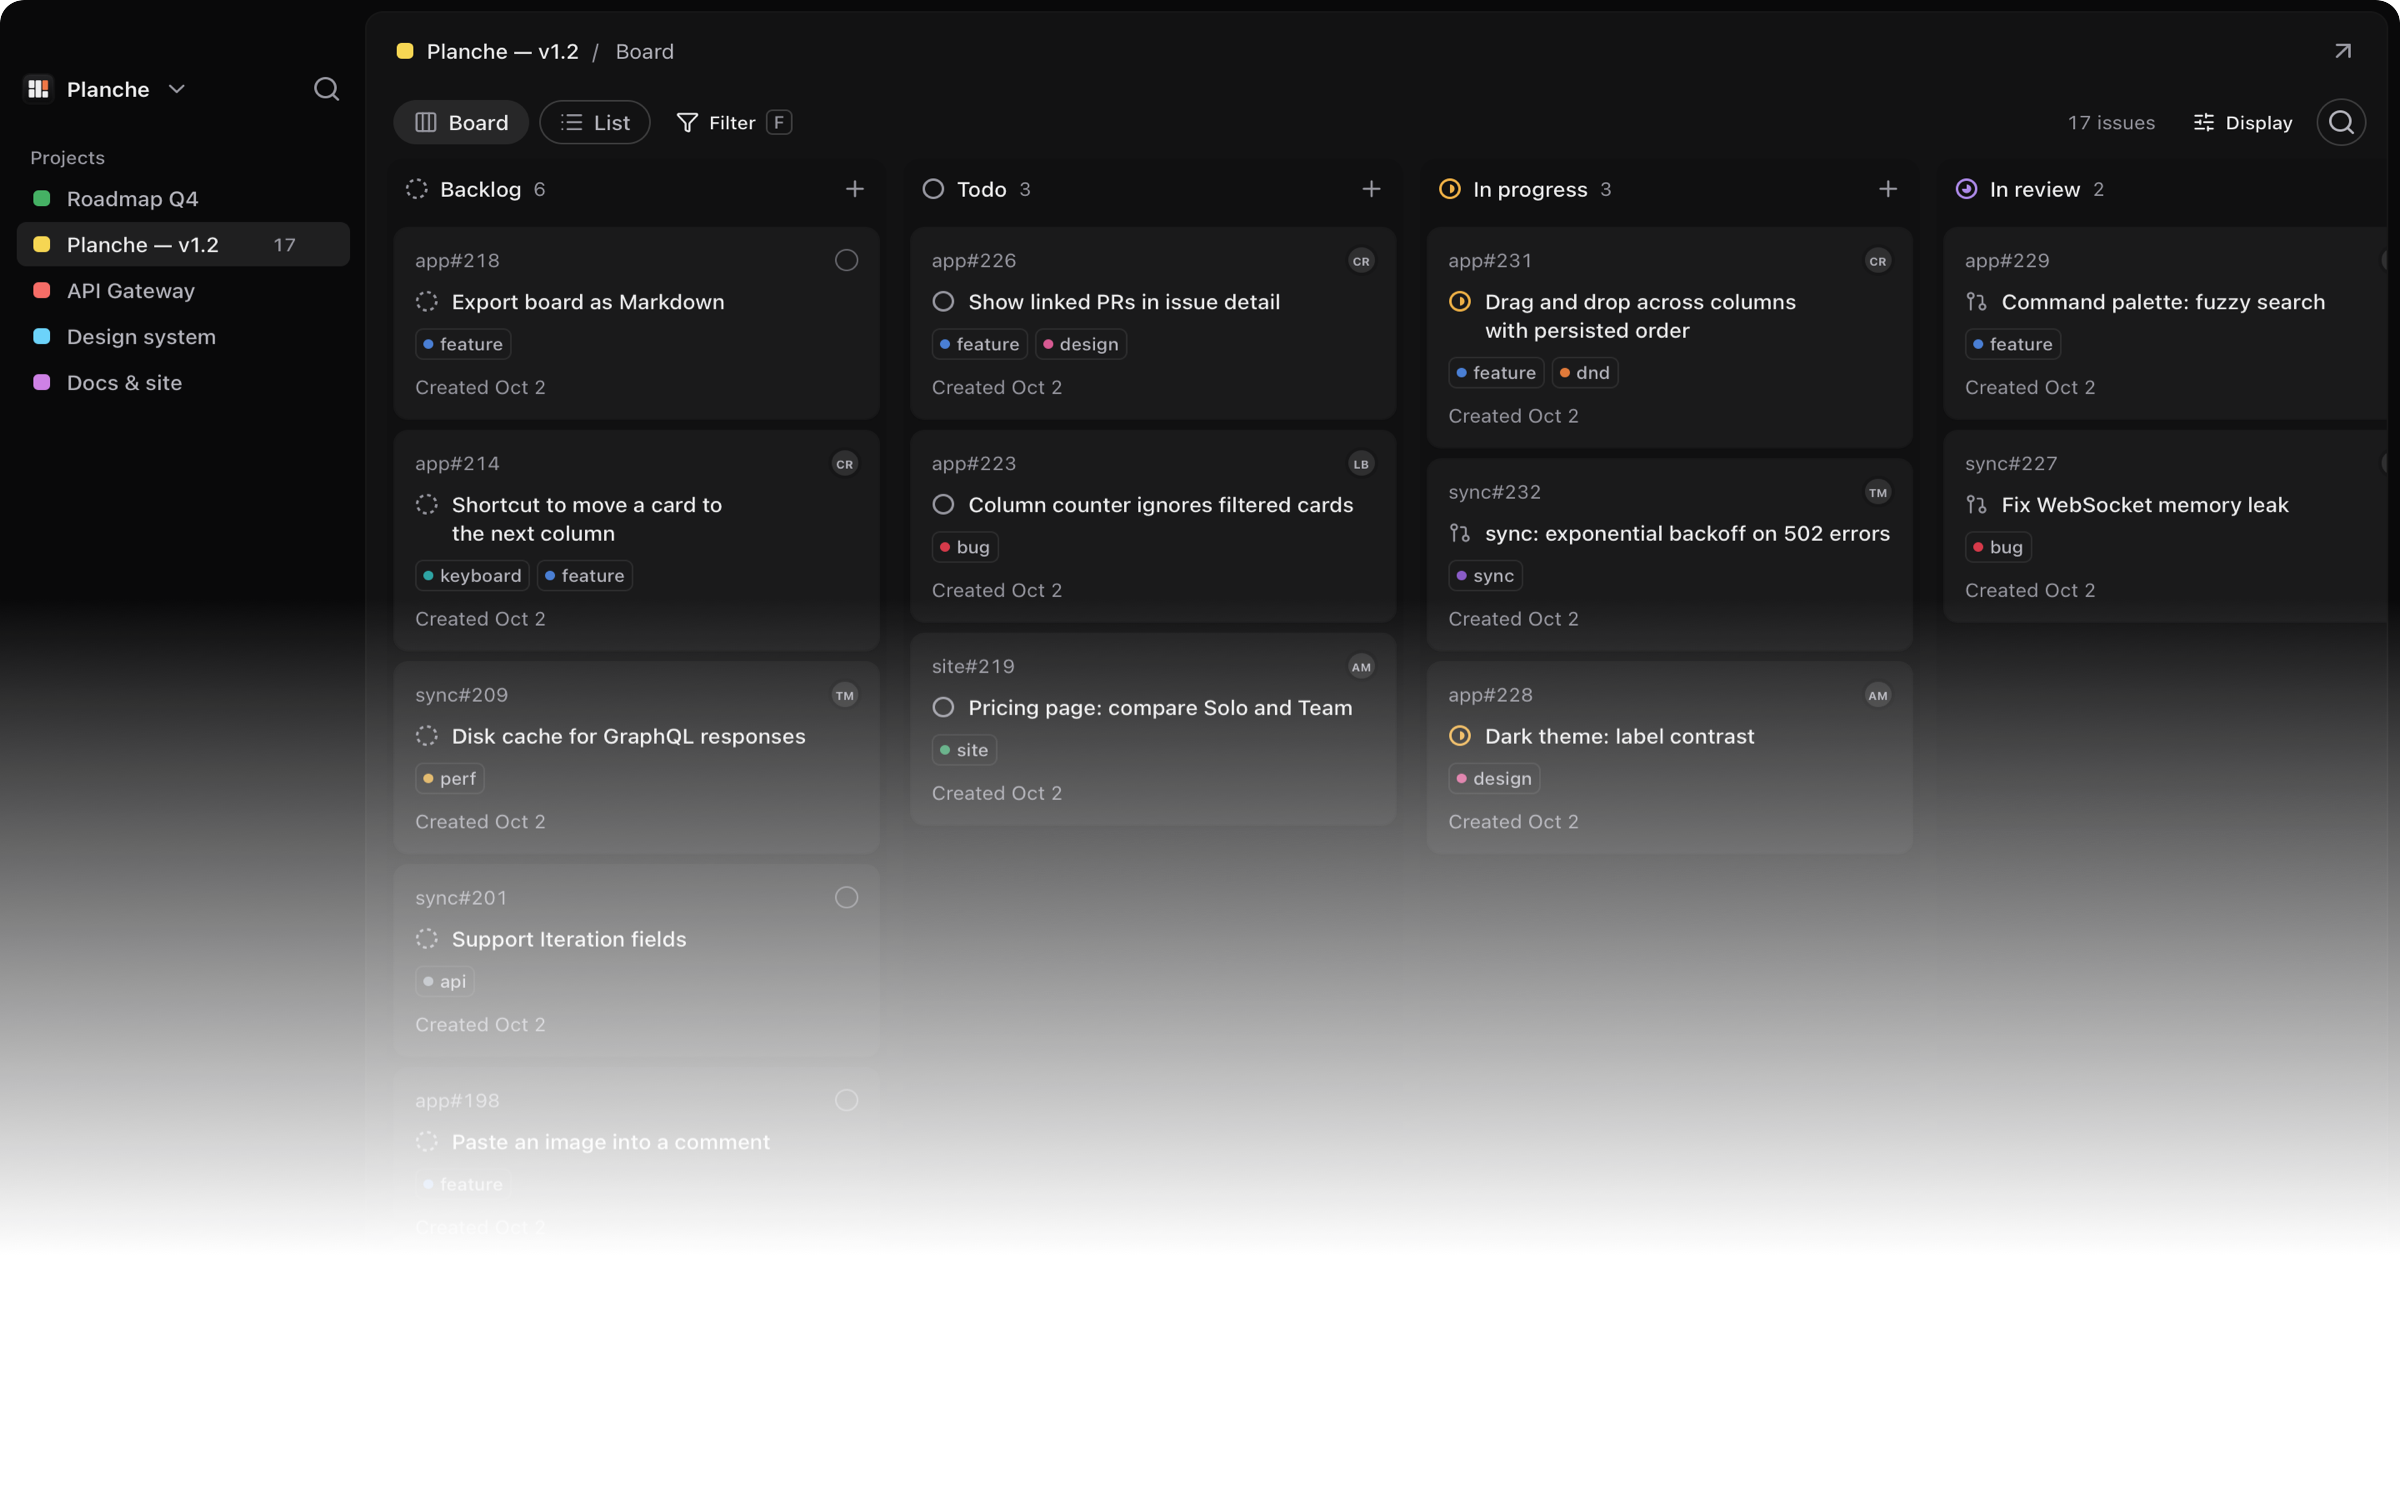
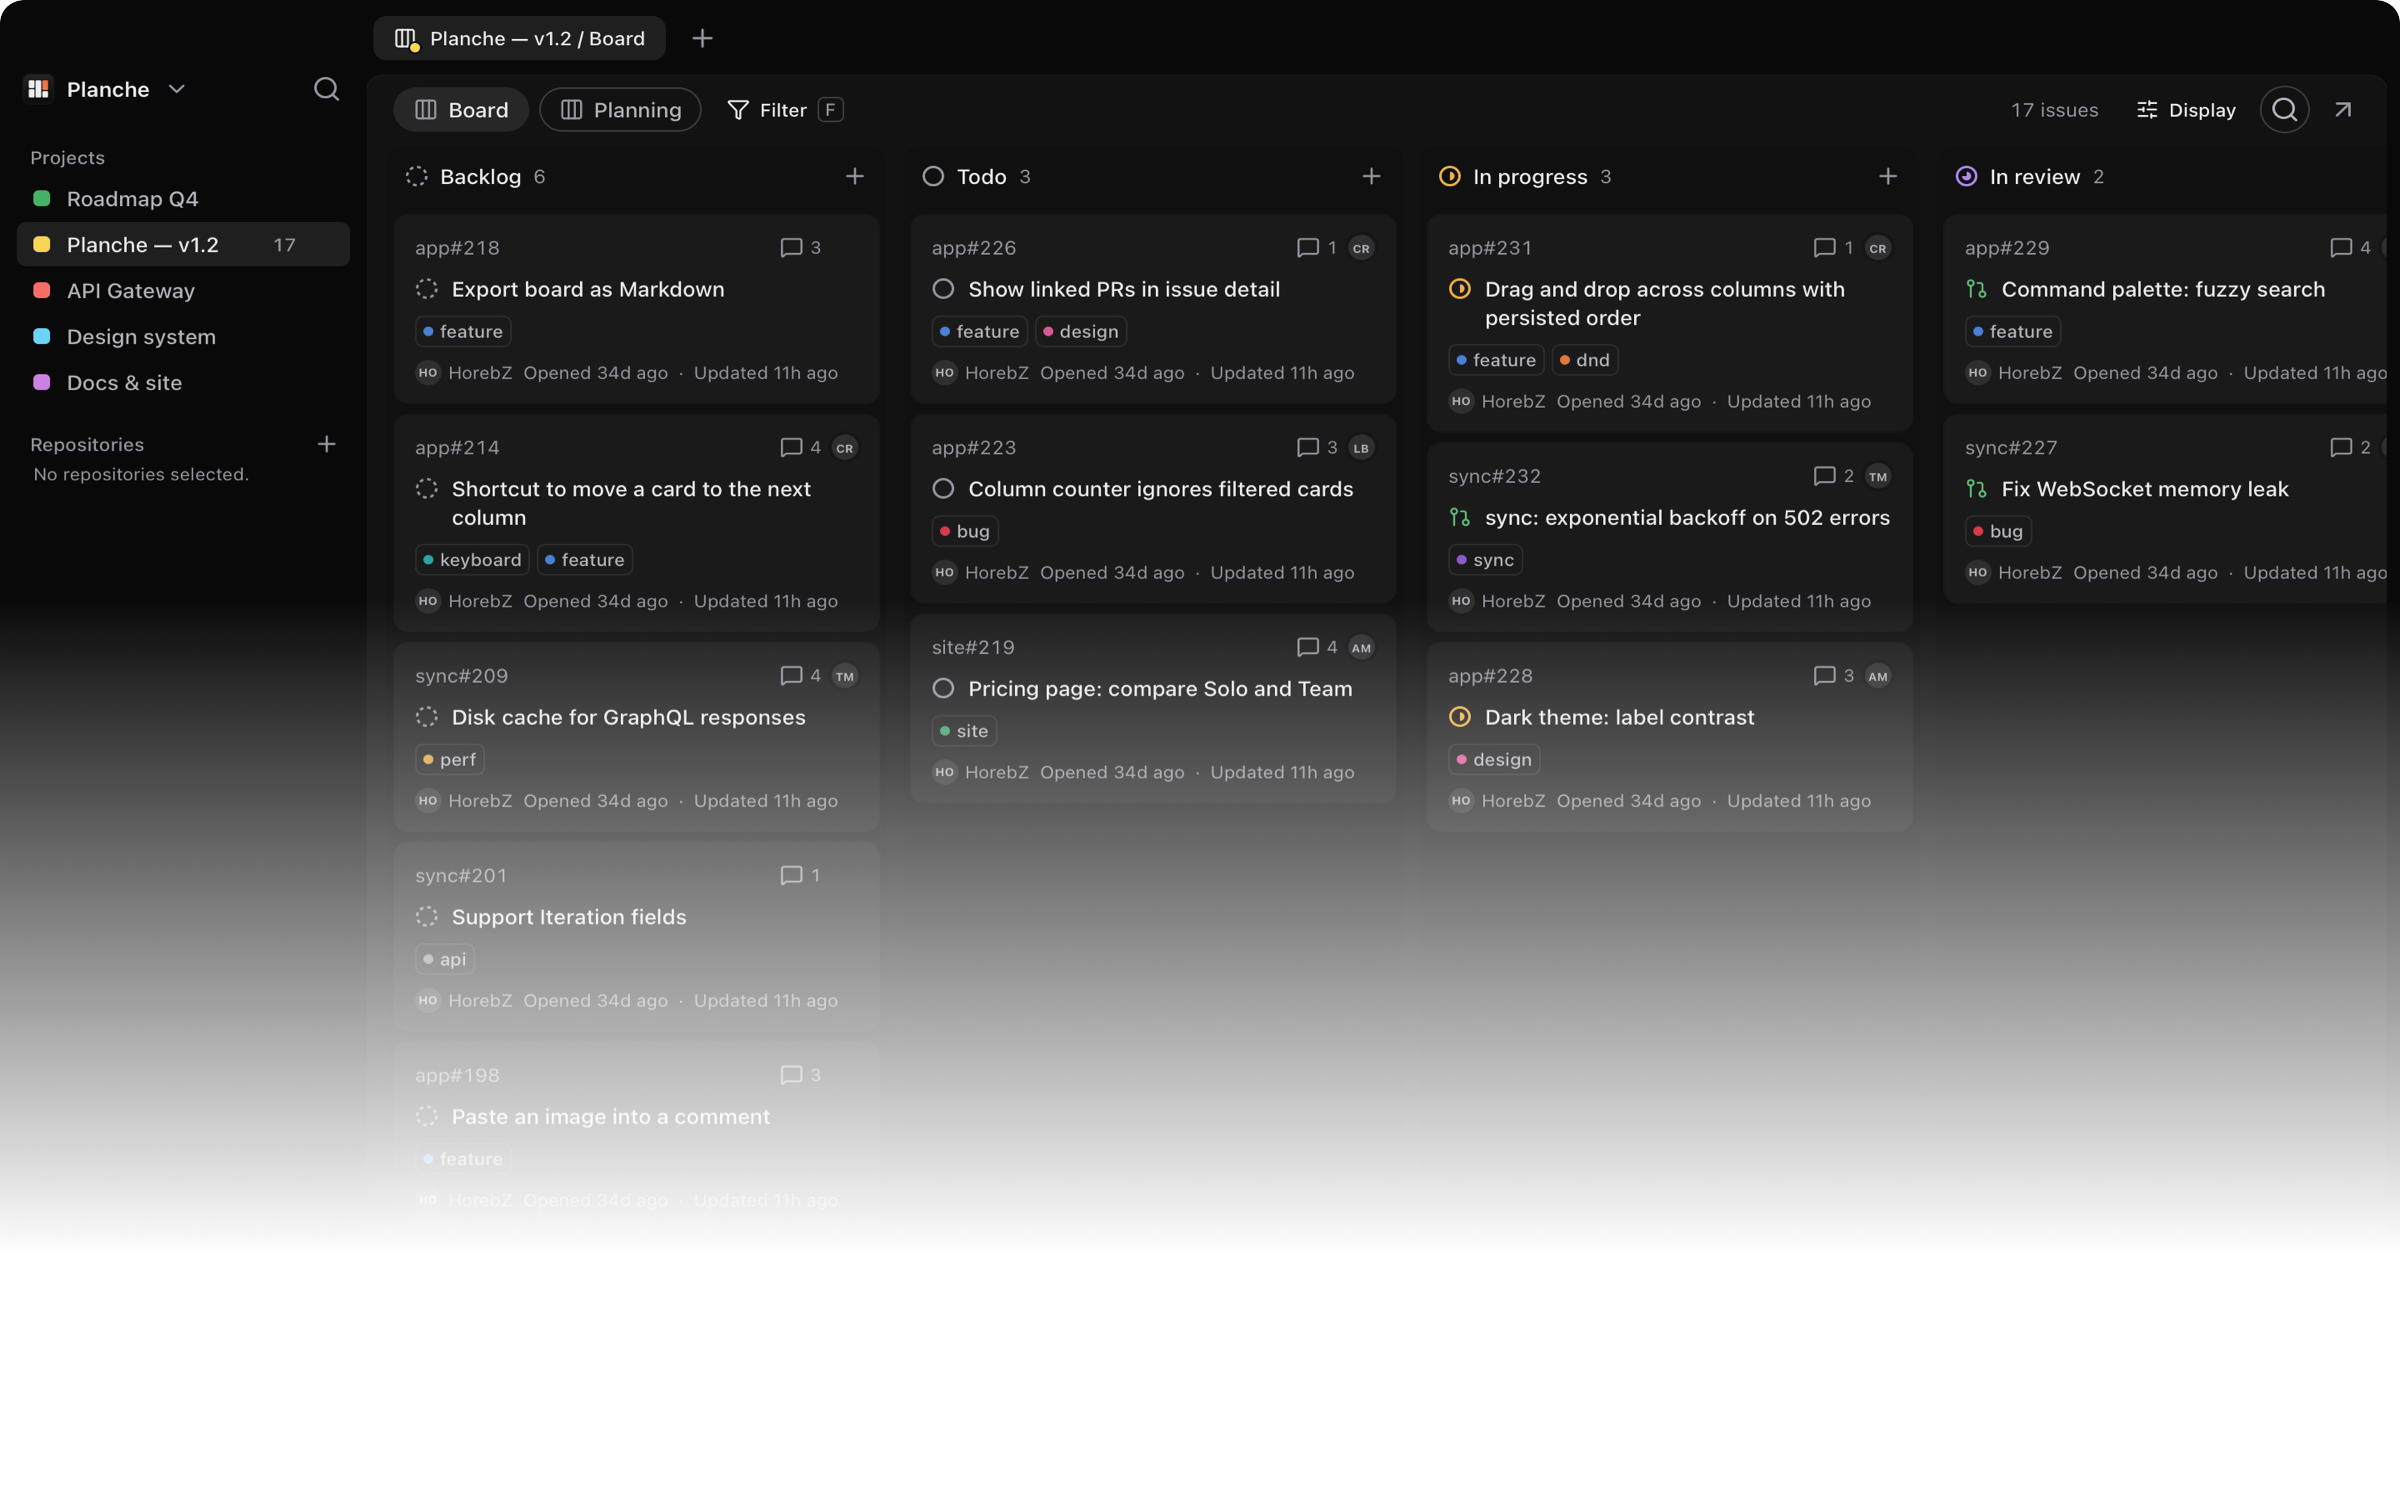
docs: simplify README and refresh board screenshots

diff --git a/README.md b/README.md
@@ -5,111 +5,54 @@
   </picture>
 </h1>
 
-<p align="center"><strong>Your GitHub Projects, at native speed.</strong></p>
-<p align="center">A macOS client for GitHub Projects.</p>
+<p align="center"><strong>A native macOS client for GitHub Projects v2.</strong></p>
 
 <p align="center">
   <a href="https://github.com/HorebZ/Planche/releases">Download the alpha</a> ·
-  <a href="https://github.com/HorebZ/Planche">☆ Star on GitHub</a> ·
   <a href="https://github.com/HorebZ/Planche/issues/1">Roadmap</a> ·
-  <a href="https://github.com/HorebZ/Planche/issues">Report an issue</a>
+  <a href="https://github.com/HorebZ/Planche/issues">Report an issue</a> ·
+  <a href="#contributing">Contribute</a>
 </p>
 <p align="center">Public alpha · macOS 15 or later</p>
 
 <p align="center">
   <img src="website/assets/board-readme.png" width="1100" alt="The current Planche app in dark mode, showing its project sidebar and GitHub issue board.">
 </p>
-<p align="center"><sub>The current app, shown with demonstration data.</sub></p>
+<p align="center"><sub>The interface is inspired by <a href="https://linear.app">Linear</a>, adapted to GitHub Projects.
+</sub></p>
 
-Planche keeps your GitHub Projects board in a dedicated macOS window. Move a card,
-change an assignee, or read an issue without leaving Planche. A local cache
-keeps previously opened boards available when the connection drops; queued changes
-sync when GitHub is reachable again.
+Manage your GitHub Projects in a dedicated macOS window, with keyboard shortcuts
+and cached boards that stay available offline. Queued changes sync when GitHub
+is reachable again.
 
-The interface is inspired by [Linear](https://linear.app), adapted to GitHub Projects.
+- **Boards and lists** — move cards and filter by status, assignee, label or repository.
+- **Issue details** — read descriptions and activity, post Markdown comments and change assignees.
+- **Keyboard navigation** — J/K to navigate, S for status, C for a draft, ⌘K to search the loaded project.
+- **Multiple accounts** — switch between saved GitHub accounts; credentials stay in macOS Keychain.
 
-## Work on your board
-
-- Switch between a board and a list, with filters for status, assignee, label and
-  repository.
-- Keep repository bookmarks in a separate sidebar section. Browse personal and
-  organization repositories or add a GitHub URL; the selection is saved per account.
-  These links currently open the repository on GitHub.
-- Navigate with J and K, open the status menu with S, or use ⌘K to search the
-  loaded project and run card actions. C starts a new project draft.
-- Open an issue to read its Markdown description, comments and activity, inspect
-  closing pull requests, and change its status or assignees. Cards also show
-  available sub-issue progress and linked PR indicators.
-- Post Markdown comments from the issue panel or tab with ⌘Enter. Unsent text stays
-  with its account and issue; queued comments survive restarting the app. If a
-  publication cannot be confirmed, check GitHub before choosing Retry.
-- Keep working on cached boards offline. Descriptions and activity you've already
-  loaded are saved locally too, with the activity's last refresh time.
-
-## Alpha scope
-
-Planche currently supports GitHub Projects v2 board views and a local list layout.
-Saved GitHub view filters are not applied. Labels are read-only; Roadmap, other
-project fields and creating repository issues still need GitHub.
-Repository issue lists also still need GitHub.
-Issue activity covers comments, closing/reopening, assignees and labels; reviews
-and the full GitHub timeline still need GitHub.
-
-The [roadmap](https://github.com/HorebZ/Planche/issues/1) tracks the next steps.
-Features are described here as they become available.
+**Alpha limits:** saved GitHub view filters are not applied and labels are read-only.
+Roadmap views, other project fields, repository issue lists, issue creation and
+the full issue timeline still need GitHub.
 
 ## Install
 
-Choose a DMG for your Mac's architecture from
-[Releases](https://github.com/HorebZ/Planche/releases), open it, and drag Planche into
-Applications. The installed app requires macOS 15 or later; it does not need Bun,
-Rust or a development environment.
+1. Download the DMG for your Mac from [Releases](https://github.com/HorebZ/Planche/releases).
+2. Open it and drag Planche into **Applications**.
+3. Launch Planche, choose **Sign in with GitHub**, then select a project.
 
-Planche checks for updates at startup. Use the sidebar update indicator or
-**Check for updates** in Settings to install a newer alpha. Saved sessions,
-preferences and cached boards survive updates; submit or discard unsent drafts
-before installing.
+Requires **macOS 15+**. Updates are available in the app. The alpha is **not
+notarized**: if macOS blocks it after the first launch attempt, use **System
+Settings → Privacy & Security → Open Anyway**. Managed Macs may prohibit this.
 
-On first launch, choose **Sign in with GitHub** and authorize the app using the
-code shown. OAuth requests only `project`. Choose **Connect organizations…** to
-add the GitHub App using the same GitHub account, while keeping personal projects.
-The App needs read/write access to organization Projects, Issues and Pull requests,
-with no Contents permission, and organization owners must approve installation.
-OAuth alone can read public issues; private personal repository cards may be
-redacted because `project` does not grant repository access. A classic PAT with
-`repo`, `read:org` and `project` remains the full-compatibility alternative; `repo`
-also permits code access. These modes never fall back to one another on refusal.
-Existing broad OAuth grants must be revoked on GitHub before reduced-scope sign-in.
+For organization projects, choose **Connect organizations…** with the same GitHub
+account. Private personal repository cards may be redacted with OAuth alone.
+See [sign-in options and permissions](docs/development.md#github-sign-in-and-local-sessions)
+for GitHub App setup and the classic PAT alternative.
 
-Use **Add account…** in the account menu or Settings to save another GitHub account.
-Switch between saved accounts without signing out; both screens show each account's
-PAT or OAuth connection. Credentials stay in macOS Keychain, and pending actions
-remain tied to the account that created them. **Sign out** removes only the active
-account and switches to another saved account when available.
+## Develop
 
-The alpha is not notarized. If macOS blocks the downloaded app after the first
-launch attempt, approval may be available in **System Settings → Privacy &
-Security → Open Anyway**. Managed Macs can prohibit this exception.
-
-## Local data
-
-Your board cache lives in
-`~/Library/Application Support/dev.planche.app/`. Preferences are saved locally by
-the interface. These stay outside the application bundle and survive app updates.
-The token is stored encrypted in the classic macOS login Keychain, without iCloud
-synchronization or Touch ID. This needs no paid Apple Developer membership. macOS
-may ask you to unlock the Keychain and authorize access, including when using the
-CLI. Development and alpha builds reuse a free local signing identity so rebuilds
-can retain **Always Allow** authorization. Planche reads it once per process and keeps it in Rust memory for
-that session. Existing `auth/token` files are migrated and removed only after a
-Keychain read verifies the copy. Signing out removes the saved token and leaves
-the board cache on disk.
-
-## Develop and contribute
-
-For local development, install [Bun](https://bun.sh) 1.3 or later,
-[Rust](https://rustup.rs) stable, and the Xcode Command Line Tools
-(`xcode-select --install`).
+Requires macOS 15+, [Bun](https://bun.sh) 1.3+, [Rust](https://rustup.rs) stable
+and Xcode Command Line Tools (`xcode-select --install`).
 
 ```sh
 git clone https://github.com/HorebZ/Planche.git
@@ -117,35 +60,25 @@ cd Planche
 bun install
 cp .env.example .env
 chmod 600 .env
-```
-
-Set the public `PLANCHE_GITHUB_CLIENT_ID` for the primary OAuth App with Device Flow.
-Optionally add `PLANCHE_GITHUB_APP_CLIENT_ID` for the companion GitHub App used to
-connect organizations. A classic PAT in `PLANCHE_TOKEN` selects token mode for
-local testing. See the development guide for permissions and installation.
-Then run:
-
-```sh
+# Configure GitHub sign-in in .env (see the development guide).
 bun run setup:signing
 bun run dev
 ```
 
-Never put credentials in a `VITE_` variable. The
-[development guide](docs/development.md) covers OAuth setup, the CLI, tests and
-release builds. [`AGENTS.md`](AGENTS.md) describes the architecture and contribution
-conventions. Run `bun run check` before pushing a change.
+Set `PLANCHE_GITHUB_CLIENT_ID` for OAuth, or `PLANCHE_TOKEN` for local testing with
+a classic PAT. Never put credentials in a `VITE_` variable.
+The [development guide](docs/development.md) covers authentication, the CLI, tests
+and releases.
 
-For a bug report, include what you expected, what happened, your macOS version
-and the steps to reproduce it. For a larger change, start with the related roadmap
-issue so the scope is clear before implementation.
+Built with **Tauri 2, React and Rust**. [`planche-core`](crates/planche-core/)
+owns the GitHub client, SQLite cache and sync engine, shared by the app and CLI.
 
-## Inside the app
+## Contributing
 
-The Tauri shell and React interface sit on `planche-core`, a Rust library that
-owns the GitHub client, SQLite cache and synchronization. The CLI uses the same
-core. Network access and stored credentials stay out of the webview.
+Bug reports and pull requests are welcome. Include reproduction steps, expected
+behavior and your macOS version in [bug reports](https://github.com/HorebZ/Planche/issues).
+Discuss larger changes in a [roadmap issue](https://github.com/HorebZ/Planche/issues/1)
+before implementation.
 
-The public site lives in [`website/`](website/). Open `website/index.html` directly,
-or run `bun run dev:website` for an HTTP preview at http://localhost:1421. The preview
-command uses Python 3's standard server; the site itself has no build step or
-server runtime requirement.
+Read [`AGENTS.md`](AGENTS.md) for architecture and code conventions, and run
+`bun run check` before pushing.
